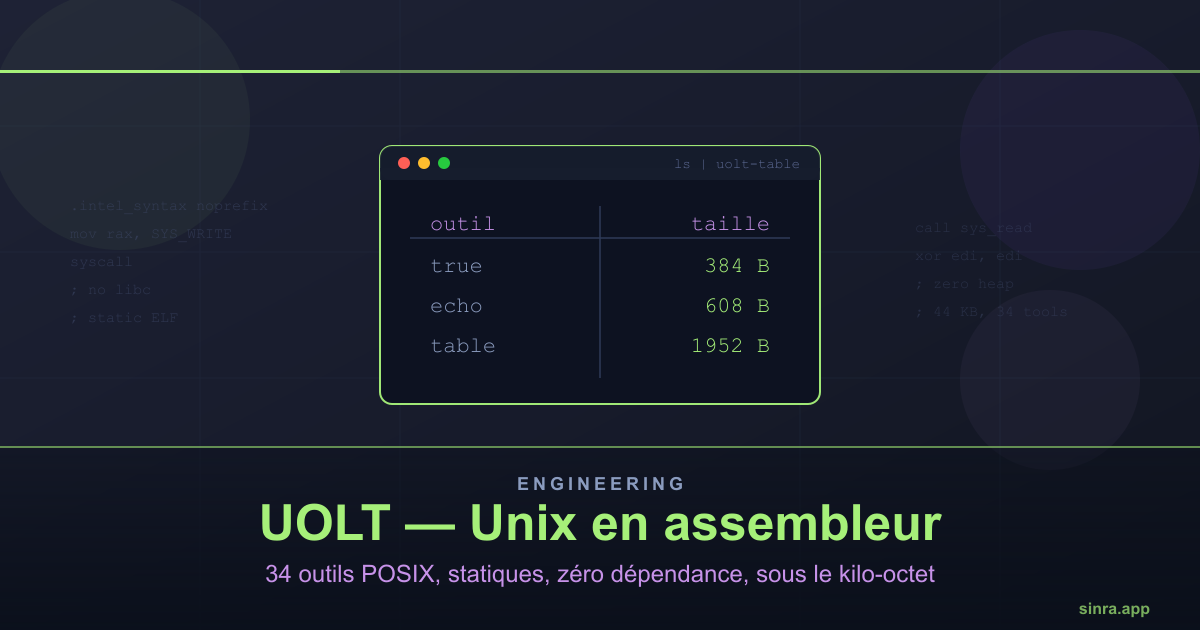
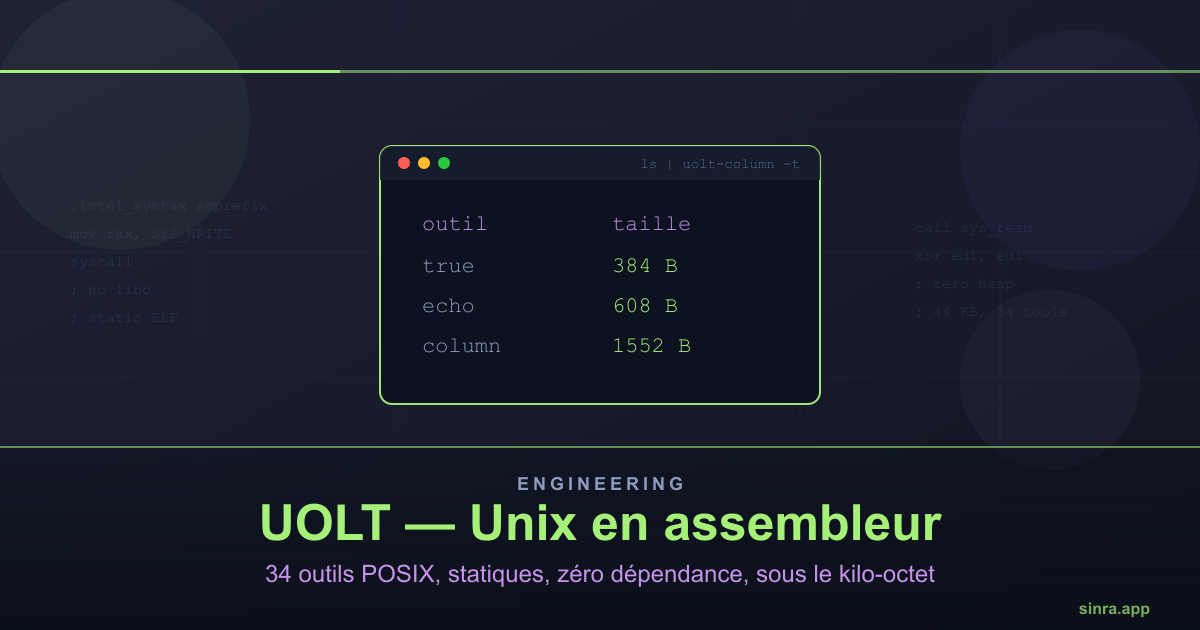
update post

diff --git a/content/blog/posts/2026-07-16-uolt-outils-unix-assembleur.en.md b/content/blog/posts/2026-07-16-uolt-outils-unix-assembleur.en.md
@@ -2,7 +2,7 @@
 
 title: "Rewriting the Unix tools in assembly: the thinking behind UOLT"
 subtitle: "Why rebuild cat, ls and sort by hand in x86_64 assembly, how the project stays clean, and what that discipline teaches us about software efficiency"
-description: "UOLT (Ultra Optimised Lightweight Toolset) rewrites the Unix utilities in pure assembly: zero dependencies, direct syscalls, no heap, static binaries under a kilobyte. The thinking, the why, the how, and the launch of the extras collection with uolt-table."
+description: "UOLT (Ultra Optimised Lightweight Toolset) rewrites the Unix utilities in pure assembly: zero dependencies, direct syscalls, no heap, static binaries under a kilobyte. The thinking, the why, the how, and the launch of the extras collection with uolt-column."
 categories: ["Engineering"]
 excerpt: "A modern cat weighs tens of kilobytes and drags the whole libc behind it. Does it have to? UOLT says no: every tool is hand-written in x86_64 assembly, no libc, no heap, talking to the kernel directly. The full suite fits in the space a single coreutils binary takes. Here is the thinking behind it."
 date: 2026-07-16 09:00:00 +0200
@@ -76,40 +76,28 @@ And there is a performance floor: every tool must be at least as fast as the one
 
 ## The new chapter: the extras collection
 
-UOLT's core is deliberately strict: POSIX and nothing more. But some tools are genuinely useful without being POSIX at all - there is not even a standard utility for them. Rather than pollute the core or bend the constitution, these tools live in a separate collection: **extras**.
+UOLT's core is deliberately strict: POSIX and nothing more. But some genuinely useful tools are not part of the POSIX core. Rather than pollute the core or bend the constitution, these tools live in a separate collection: **extras**.
 
 The extras reuse the exact same assembly infrastructure - the syscall layer, the shared internal library, the static link script - and obey every principle of the project **except** the POSIX constraint. Each one is still hand-written x86_64 assembly, direct syscalls, no dependency, no heap, with a size target and a full test battery.
 
-The first member of that collection is **`uolt-table`**.
+The first member of that collection is **`uolt-column`**.
 
-### uolt-table: your pipes as tables
+### uolt-column: your pipes aligned into columns
 
-The idea is simple. Many Unix commands produce whitespace-separated columns that are hard to read when the widths vary. `uolt-table` reads standard input and renders it as a table drawn with Unicode box-drawing characters:
-
-```console
-$ printf 'name size date\nfoo 1024 jul16\nbar 42 jul15\n' | uolt-table
-┌──────┬──────┬───────┐
-│ name │ size │ date  │
-│ foo  │ 1024 │ jul16 │
-│ bar  │ 42   │ jul15 │
-└──────┴──────┴───────┘
-```
-
-Fields are split on runs of blanks, and column widths are computed in **UTF-8 code points** - so accented text stays aligned, a four-byte "café" correctly counting as four display columns. Input is loaded into an `mmap` region that grows on demand: any input size renders without silent truncation.
-
-With the `-H` option, the first row becomes a header, separated from the body by a rule:
+The idea is simple. Many Unix commands produce whitespace-separated columns that are unreadable when the widths vary. The util-linux/BSD `column -t` tool exists precisely to align them - but it pulls in the libc and weighs tens of kilobytes. `uolt-column` does the same thing in **1552 bytes**:
 
 ```console
-$ printf 'name size\nfoo 1024\nbar 42\n' | uolt-table -H
-┌──────┬──────┐
-│ name │ size │
-├──────┼──────┤
-│ foo  │ 1024 │
-│ bar  │ 42   │
-└──────┴──────┘
+$ printf 'name size date\nfoo 1024 jul16\nbar 42 jul15\n' | uolt-column -t
+name  size  date
+foo   1024  jul16
+bar   42    jul15
 ```
 
-All in a static binary of **1952 bytes** on Linux. For comparison, the closest standard tool, `column`, pulls in the libc and weighs tens of kilobytes.
+Fields are split on runs of blanks, each is padded to the widest field in its column, columns are separated by two blanks, and the last field of each line is left unpadded. That is **exactly** the output of `column -t` on rectangular input - verified by a differential test that compares byte-for-byte with the system `column`, on Linux (util-linux) and macOS (BSD) alike. Widths are measured in **UTF-8 code points**, so accented text stays aligned.
+
+This is where choosing `column` over a decorative object pays off. A UOLT tool is defined by that bit-for-bit differential test against a reference: `column` has two reference implementations, so `uolt-column` fits the mold exactly like the other 34. And its output stays **composable** - aligned text you can still pipe into `grep`, `cut` or `awk` downstream, unlike a boxed rendering that would be a dead-end in a pipe.
+
+Only the `-t` (table) mode is implemented: the deterministic, useful one. The default "columns" mode of `column` depends on the terminal width and is not reproducible, so it is out of scope. A `-t` argument is accepted so existing `column -t` invocations work unchanged. Input is loaded into an `mmap` region that grows on demand: any input size aligns without silent truncation.
 
 ## What this approach teaches us
 

diff --git a/content/blog/posts/2026-07-16-uolt-outils-unix-assembleur.es.md b/content/blog/posts/2026-07-16-uolt-outils-unix-assembleur.es.md
@@ -2,7 +2,7 @@
 
 title: "Reescribir las herramientas Unix en ensamblador: la idea detrás de UOLT"
 subtitle: "Por qué reconstruir cat, ls y sort a mano en ensamblador x86_64, cómo se mantiene todo limpio, y qué nos enseña esa disciplina sobre la eficiencia del software"
-description: "UOLT (Ultra Optimised Lightweight Toolset) reescribe las utilidades Unix en ensamblador puro: cero dependencias, syscalls directas, sin heap, binarios estáticos por debajo del kilobyte. La idea, el porqué, el cómo, y el lanzamiento de la colección extras con uolt-table."
+description: "UOLT (Ultra Optimised Lightweight Toolset) reescribe las utilidades Unix en ensamblador puro: cero dependencias, syscalls directas, sin heap, binarios estáticos por debajo del kilobyte. La idea, el porqué, el cómo, y el lanzamiento de la colección extras con uolt-column."
 categories: ["Ingeniería"]
 excerpt: "Un cat moderno pesa decenas de kilobytes y arrastra consigo toda la libc. ¿Tiene que ser así? UOLT dice que no: cada herramienta se reescribe a mano en ensamblador x86_64, sin libc, sin heap, hablando directamente con el núcleo. La suite completa cabe en lo que ocupa un solo binario de coreutils. Esta es la idea."
 date: 2026-07-16 09:00:00 +0200
@@ -76,40 +76,28 @@ Y hay un suelo de rendimiento: cada herramienta debe ser al menos tan rápida co
 
 ## El nuevo capítulo: la colección extras
 
-El núcleo de UOLT es deliberadamente estricto: solo POSIX, nada más. Pero algunas herramientas son realmente útiles sin ser POSIX en absoluto - ni siquiera existe una utilidad estándar para ellas. En lugar de contaminar el núcleo o forzar la constitución, esas herramientas viven en una colección aparte: **extras**.
+El núcleo de UOLT es deliberadamente estricto: solo POSIX, nada más. Pero algunas herramientas realmente útiles no forman parte del núcleo POSIX. En lugar de contaminar el núcleo o forzar la constitución, esas herramientas viven en una colección aparte: **extras**.
 
 Los extras reutilizan exactamente la misma infraestructura de ensamblador - la capa de syscalls, la biblioteca interna compartida, el script de enlace estático - y obedecen todos los principios del proyecto **excepto** la restricción POSIX. Cada uno sigue siendo ensamblador x86_64 escrito a mano, syscalls directas, sin dependencia, sin heap, con un objetivo de tamaño y una batería completa de tests.
 
-El primer miembro de esa colección es **`uolt-table`**.
+El primer miembro de esa colección es **`uolt-column`**.
 
-### uolt-table: tus pipes en forma de tabla
+### uolt-column: tus pipes alineados en columnas
 
-La idea es sencilla. Muchos comandos Unix producen columnas separadas por espacios, difíciles de leer cuando los anchos varían. `uolt-table` lee la entrada estándar y la representa como una tabla dibujada con los caracteres de recuadro Unicode:
-
-```console
-$ printf 'nombre tam fecha\nfoo 1024 jul16\nbar 42 jul15\n' | uolt-table
-┌────────┬──────┬───────┐
-│ nombre │ tam  │ fecha │
-│ foo    │ 1024 │ jul16 │
-│ bar    │ 42   │ jul15 │
-└────────┴──────┴───────┘
-```
-
-Los campos se separan en secuencias de espacios, y los anchos de columna se calculan en **puntos de código UTF-8** - así el texto acentuado se mantiene alineado, un «café» de cuatro bytes contando correctamente como cuatro columnas de visualización. La entrada se carga en una región `mmap` que crece a demanda: cualquier tamaño de entrada se representa sin truncamiento silencioso.
-
-Con la opción `-H`, la primera fila se convierte en encabezado, separado del cuerpo por una línea:
+La idea es sencilla. Muchos comandos Unix producen columnas separadas por espacios, ilegibles cuando los anchos varían. La herramienta `column -t` de util-linux/BSD existe precisamente para alinearlas - pero arrastra la libc y pesa decenas de kilobytes. `uolt-column` hace lo mismo en **1552 bytes**:
 
 ```console
-$ printf 'nombre tam\nfoo 1024\nbar 42\n' | uolt-table -H
-┌────────┬──────┐
-│ nombre │ tam  │
-├────────┼──────┤
-│ foo    │ 1024 │
-│ bar    │ 42   │
-└────────┴──────┘
+$ printf 'nombre tam fecha\nfoo 1024 jul16\nbar 42 jul15\n' | uolt-column -t
+nombre  tam   fecha
+foo     1024  jul16
+bar     42    jul15
 ```
 
-Todo en un binario estático de **1952 bytes** en Linux. Para comparar, la herramienta estándar más parecida, `column`, arrastra la libc y pesa decenas de kilobytes.
+Los campos se separan en secuencias de espacios, cada uno se rellena con espacios hasta el ancho máximo de su columna, las columnas se separan por dos espacios, y el último campo de cada línea no se rellena. Es **exactamente** la salida de `column -t` sobre una entrada rectangular - verificado por un test diferencial que compara byte a byte con el `column` del sistema, tanto en Linux (util-linux) como en macOS (BSD). Los anchos se miden en **puntos de código UTF-8**, así que el texto acentuado se mantiene alineado.
+
+Aquí es donde elegir `column` en vez de un objeto decorativo cobra sentido. Una herramienta UOLT se define por ese test diferencial bit a bit contra una referencia: `column` tiene dos implementaciones de referencia, así que `uolt-column` encaja en el molde igual que las otras 34. Y su salida sigue siendo **componible** - texto alineado que aún puedes pasar a `grep`, `cut` o `awk` aguas abajo, a diferencia de una representación con recuadros que sería un callejón sin salida en un pipe.
+
+Solo se implementa el modo `-t` (tabla): el modo determinista y útil. El modo «columnas» por defecto de `column` depende del ancho del terminal y no es reproducible, así que queda fuera del alcance. El argumento `-t` se acepta para que las invocaciones `column -t` existentes funcionen sin cambios. La entrada se carga en una región `mmap` que crece a demanda: cualquier tamaño se alinea sin truncamiento silencioso.
 
 ## Lo que nos enseña este enfoque
 

diff --git a/content/blog/posts/2026-07-16-uolt-outils-unix-assembleur.fr.md b/content/blog/posts/2026-07-16-uolt-outils-unix-assembleur.fr.md
@@ -2,7 +2,7 @@
 
 title: "Réécrire les outils Unix en assembleur : la démarche derrière UOLT"
 subtitle: "Pourquoi reconstruire cat, ls et sort à la main en assembleur x86_64, comment on garde ça propre, et ce que cette discipline nous apprend sur l'efficacité logicielle"
-description: "UOLT (Ultra Optimised Lightweight Toolset) réécrit les utilitaires Unix en assembleur pur : zéro dépendance, syscalls directs, pas de tas mémoire, des binaires statiques sous le kilo-octet. La démarche, le pourquoi, le comment, et le lancement de la collection extras avec uolt-table."
+description: "UOLT (Ultra Optimised Lightweight Toolset) réécrit les utilitaires Unix en assembleur pur : zéro dépendance, syscalls directs, pas de tas mémoire, des binaires statiques sous le kilo-octet. La démarche, le pourquoi, le comment, et le lancement de la collection extras avec uolt-column."
 categories: ["Ingénierie"]
 excerpt: "Un cat moderne pèse plusieurs dizaines de kilo-octets et tire derrière lui la libc entière. Est-ce que ça doit être le cas ? UOLT répond non : chaque outil est réécrit à la main en assembleur x86_64, sans libc, sans tas mémoire, en syscalls directs. La suite complète tient dans ce qu'un seul binaire coreutils occupe. Voici la démarche."
 date: 2026-07-16 09:00:00 +0200
@@ -76,40 +76,28 @@ Et il y a un plancher de performance : chaque outil doit être au moins aussi ra
 
 ## Le nouveau chapitre : la collection extras
 
-Le cœur d'UOLT est volontairement strict : que du POSIX, rien de plus. Mais certains outils sont réellement utiles sans être POSIX du tout - il n'existe même pas d'utilitaire standard pour eux. Plutôt que de polluer le cœur ou de forcer la constitution, ces outils vivent dans une collection séparée : **extras**.
+Le cœur d'UOLT est volontairement strict : que du POSIX, rien de plus. Mais certains outils vraiment utiles ne font pas partie du cœur POSIX. Plutôt que de polluer le cœur ou de forcer la constitution, ces outils vivent dans une collection séparée : **extras**.
 
 Les extras réutilisent exactement la même infrastructure assembleur - la couche syscall, la bibliothèque interne partagée, le script de lien statique - et obéissent à tous les principes du projet, **sauf** la contrainte POSIX. Chacun reste de l'assembleur x86_64 écrit à la main, en syscalls directs, sans dépendance, sans tas, avec une cible de taille et une batterie de tests complète.
 
-Le premier membre de cette collection est **`uolt-table`**.
+Le premier membre de cette collection est **`uolt-column`**.
 
-### uolt-table : vos pipes en tableaux
+### uolt-column : vos pipes alignés en colonnes
 
-L'idée est simple. Beaucoup de commandes Unix produisent des colonnes séparées par des espaces, difficiles à lire quand les largeurs varient. `uolt-table` lit l'entrée standard et la rend sous forme de tableau dessiné avec les caractères de filet Unicode :
-
-```console
-$ printf 'nom taille date\nfoo 1024 juil16\nbar 42 juil15\n' | uolt-table
-┌─────┬────────┬────────┐
-│ nom │ taille │ date   │
-│ foo │ 1024   │ juil16 │
-│ bar │ 42     │ juil15 │
-└─────┴────────┴────────┘
-```
-
-Les champs sont découpés sur les suites d'espaces, et les largeurs de colonnes sont calculées en **points de code UTF-8** - donc le texte accentué reste aligné, un « café » de quatre octets comptant bien pour quatre colonnes d'affichage. L'entrée est chargée dans une région `mmap` qui grandit à la demande : n'importe quelle taille d'entrée est rendue sans troncature silencieuse.
-
-Avec l'option `-H`, la première ligne devient un en-tête, séparé du corps par un filet :
+L'idée est simple. Beaucoup de commandes Unix produisent des colonnes séparées par des espaces, illisibles quand les largeurs varient. L'outil `column -t` d'util-linux/BSD sert justement à les aligner - mais il tire la libc et pèse plusieurs dizaines de kilo-octets. `uolt-column` fait la même chose en **1552 octets** :
 
 ```console
-$ printf 'nom taille\nfoo 1024\nbar 42\n' | uolt-table -H
-┌─────┬────────┐
-│ nom │ taille │
-├─────┼────────┤
-│ foo │ 1024   │
-│ bar │ 42     │
-└─────┴────────┘
+$ printf 'nom taille date\nfoo 1024 juil16\nbar 42 juil15\n' | uolt-column -t
+nom  taille  date
+foo  1024    juil16
+bar  42      juil15
 ```
 
-Le tout dans un binaire statique de **1952 octets** sur Linux. Pour comparaison, l'outil standard le plus proche, `column`, tire la libc et pèse plusieurs dizaines de kilo-octets.
+Les champs sont découpés sur les suites d'espaces, chacun est complété par des espaces jusqu'à la largeur maximale de sa colonne, les colonnes sont séparées par deux espaces, et le dernier champ de chaque ligne n'est pas complété. C'est **exactement** la sortie de `column -t` sur une entrée rectangulaire - vérifié par un test différentiel qui compare octet pour octet avec le `column` du système, sur Linux (util-linux) comme sur macOS (BSD). Les largeurs sont mesurées en **points de code UTF-8**, donc le texte accentué reste aligné.
+
+C'est là que le choix de `column` plutôt qu'un objet décoratif prend son sens. Un outil UOLT se définit par ce test différentiel au bit près contre une référence : `column` a deux implémentations de référence, donc `uolt-column` rentre dans le moule exactement comme les 34 autres. Et sa sortie reste **composable** - du texte aligné qu'on peut encore passer à `grep`, `cut` ou `awk` en aval, contrairement à un rendu encadré qui serait un cul-de-sac dans un pipe.
+
+Seul le mode `-t` (tableau) est implémenté : c'est le mode déterministe et utile. Le mode « colonnes » par défaut de `column` dépend de la largeur du terminal et n'est pas reproductible, donc hors périmètre. L'argument `-t` est accepté pour que les invocations `column -t` existantes fonctionnent sans changement. L'entrée est chargée dans une région `mmap` qui grandit à la demande : n'importe quelle taille est alignée sans troncature silencieuse.
 
 ## Ce que cette démarche nous apprend
 